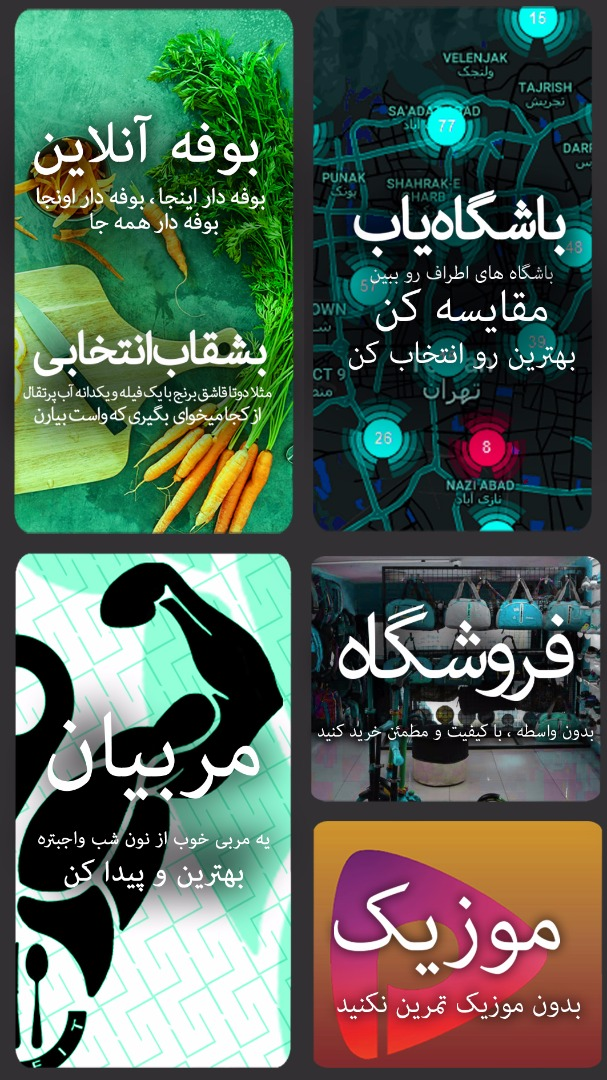
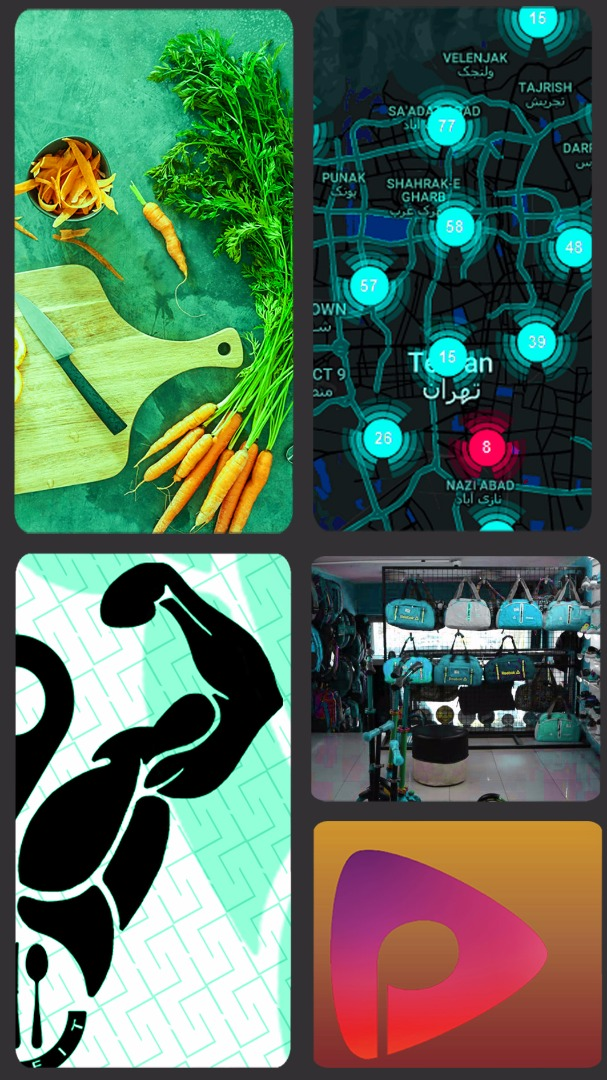
add: homeScreen

diff --git a/src/components/root/Main.js b/src/components/root/Main.js
@@ -1,6 +1,6 @@
 import React, { Component } from 'react';
-import { Text, View, } from 'react-native';
-import { Button, Container } from 'native-base';
+import { View, TouchableOpacity } from 'react-native';
+import { Container } from 'native-base';
 import { connect } from 'react-redux';
 import { main } from '../../assets/styles/index';
 import AppHeader from '../header';
@@ -8,6 +8,7 @@ import { putCheckToken } from '../../services';
 import MemberGrid from './grids/MemberGrid';
 import GymGrid from './grids/GymGrid';
 import BuffetGrid from './grids/BuffetGrid';
+import { Text } from '../Kit';
 
 @connect(state => ({
   user: state.user,
@@ -46,33 +47,24 @@ export default class Main extends Component {
       1 ?
         (<View>
           <View style={main.pannelContainer}>
-            <View style={main.pannelWrapper}>
-              <Button
-                full
-                style={main.pannelBtn}
-                onPress={() => this.setState({ viewComponent: <GymGrid /> })}
-              >
-                <Text style={main.pannelTextBtn}>باشگاه دار</Text>
-              </Button>
-            </View>
-            <View style={{ flex: 1, margin: 2 }}>
-              <Button
-                full
-                style={main.pannelBtn}
-                onPress={() => this.setState({ viewComponent: <BuffetGrid /> })}
-              >
-                <Text style={main.pannelTextBtn}>بوفه دار</Text>
-              </Button>
-            </View>
-            <View style={{ flex: 1, margin: 2 }}>
-              <Button
-                full
-                style={main.pannelBtn}
-                onPress={() => this.setState({ viewComponent: <MemberGrid /> })}
-              >
-                <Text style={main.pannelTextBtn}>ورزشکار</Text>
-              </Button>
-            </View>
+            <TouchableOpacity
+              style={main.pannelBtn}
+              onPress={() => this.setState({ viewComponent: <GymGrid /> })}
+            >
+              <Text style={main.pannelTextBtn}>باشگاه دار</Text>
+            </TouchableOpacity>
+            <TouchableOpacity
+              style={main.pannelBtn}
+              onPress={() => this.setState({ viewComponent: <BuffetGrid /> })}
+            >
+              <Text style={main.pannelTextBtn}>بوفه دار</Text>
+            </TouchableOpacity>
+            <TouchableOpacity
+              style={main.pannelBtn}
+              onPress={() => this.setState({ viewComponent: <MemberGrid /> })}
+            >
+              <Text style={main.pannelTextBtn}>ورزشکار</Text>
+            </TouchableOpacity>
           </View>
          </View>)
         : null;

diff --git a/src/components/root/grids/GymGrid.js b/src/components/root/grids/GymGrid.js
@@ -1,5 +1,5 @@
 import React, { Component } from 'react';
-import { View } from 'react-native';
+import { ImageBackground, View } from 'react-native';
 import { Container } from 'native-base';
 import { connect } from 'react-redux';
 import { styles } from './style';
@@ -17,7 +17,11 @@ export default class GymGrid extends Component {
   render() {
     return (
       <Container>
-        <View style={styles.mainContainer}>
+        <ImageBackground
+          source={require('../../../assets/GymGrid.jpeg')}
+          imageStyle={styles.background}
+          style={styles.mainContainer}
+        >
           <View style={styles.mainRowWrapper}>
             <View style={styles.wrapper}>
               <MyGym />
@@ -28,13 +32,13 @@ export default class GymGrid extends Component {
           </View>
           <View style={styles.mainRowWrapper}>
             <View style={styles.wrapper}>
-              <Music />
-            </View>
-            <View style={styles.wrapper}>
               <Store />
             </View>
+            <View style={styles.wrapper}>
+              <Music />
+            </View>
           </View>
-        </View>
+        </ImageBackground>
       </Container>
     );
   }

diff --git a/src/components/root/profile/EditProfile.js b/src/components/root/profile/EditProfile.js
@@ -11,8 +11,8 @@ import { setUser } from '../../../redux/actions/index';
 import { picker } from './imagePicker';
 import { uploader } from '../../../services/UploadImage';
 import { Member } from '../../../services/type';
-import {Text} from "../../Kit";
-import {mainColor, white} from "../../../assets/variables/colors";
+import { Text } from '../../Kit';
+import { mainColor, white } from '../../../assets/variables/colors';
 
 @connect(state => ({
   user: state.user,
@@ -157,11 +157,11 @@ export default class EditProfile extends React.Component {
                 style={EditProfileStyle.uploadButton}
                 onPress={this.showImagePicker.bind(this)}
               >
-                <Text style={{color:white}}>انتخاب تصویر</Text>
+                <Text style={{ color: white }}>انتخاب تصویر</Text>
               </Button>
               <Button
                 disabled={this.state.UploadButtonDisable}
-                style={{backgroundColor:mainColor}}
+                style={{ backgroundColor: mainColor }}
                 onPress={this.uploadImage.bind(this)}
               >
                 <Text style={EditProfileStyle.btnText}>آپلود تصویر</Text>

diff --git a/src/components/Main/Buffet.js b/src/components/Main/Buffet.js
@@ -10,10 +10,19 @@ export default () => (
       <Text type="bold" style={styles.animationTitle}>
               بوفه آنلاین
       </Text>
-      {/* <Text style={styles.animationDetail}> */}
-      {/* با بوفه آنلاین شما می توانید غذاهای مخصوص رژیم خود را بصورت آنلاین سفارش دهید و 30 */}
-      {/* الی 45 دقیقه دیگر در محل مورد نظر خود دریافت کنید! */}
-      {/* </Text> */}
+      <Text type="bold" style={styles.animationDetail}>
+      بوفه دار اینجا، بوفه دار اونجا
+      </Text>
+      <Text type="bold" style={styles.animationDetail}>
+        بوفه دار همه جا
+      </Text>
+      <Text type="bold" style={styles.animationTitle}>
+        بشقاب انتخابی
+      </Text>
+      <Text type="bold" style={styles.animationDetail}>
+        مثلا دو قاشق برنج با یک فیله و یکدانه
+        آب پرتقال از کجا میخوای بگیری که واست بیارن
+      </Text>
     </View>
   </TouchableWithoutFeedback>
 );

diff --git a/src/components/Main/style.js b/src/components/Main/style.js
@@ -3,23 +3,26 @@ import EStyleSheet from 'react-native-extended-stylesheet';
 const styles = EStyleSheet.create({
   animationView: {
     flex: 1,
-    // backgroundColor: 'rgba(0,0,0,0.2)',
-    // borderRadius: 10,
-    // borderColor: 'white',
-    // borderWidth: 2,
-    margin: 5,
-    marginHorizontal: 6,
+    backgroundColor: 'rgba(0,0,0,0.15)',
+    paddingHorizontal: 5,
+    justifyContent: 'center'
   },
   animationTitle: {
     color: 'white',
-    fontSize: 16,
+    fontSize: 24,
     textAlign: 'center',
-    marginBottom: 5
+    textShadowColor: 'rgba(0, 0, 0, 0.9)',
+    textShadowOffset: { width: -1, height: 1 },
+    textShadowRadius: 10
   },
   animationDetail: {
+    textAlign: 'center',
     color: 'white',
     fontSize: 12,
-    marginHorizontal: 5,
+    marginHorizontal: 2,
+    textShadowColor: 'rgba(0, 0, 0, 0.9)',
+    textShadowOffset: { width: -1, height: 1 },
+    textShadowRadius: 10
   },
 });
 export { styles };

diff --git a/src/components/root/grids/BuffetGrid.js b/src/components/root/grids/BuffetGrid.js
@@ -1,5 +1,5 @@
 import React, { Component } from 'react';
-import { View } from 'react-native';
+import { ImageBackground, View } from 'react-native';
 import { Container } from 'native-base';
 import { connect } from 'react-redux';
 import PropTypes from 'prop-types';
@@ -51,7 +51,11 @@ export default class BuffetGrid extends Component {
   render() {
     return (
       <Container>
-        <View style={styles.mainContainer}>
+        <ImageBackground
+          source={require('../../../assets/BuffetGrid.jpeg')}
+          imageStyle={styles.background}
+          style={styles.mainContainer}
+        >
           <View style={styles.mainRowWrapper}>
             <View style={styles.wrapper}>
               <BuffetKeeper />
@@ -73,10 +77,9 @@ export default class BuffetGrid extends Component {
               </View>
             </View>
           </View>
-        </View>
+        </ImageBackground>
       </Container>
     );
   }
 }
-
 

diff --git a/src/assets/styles/index.js b/src/assets/styles/index.js
@@ -1,6 +1,6 @@
 import EStyleSheet from 'react-native-extended-stylesheet';
 import { Dimensions } from 'react-native';
-import { mainColor } from '../variables/colors';
+import { darkColor, mainColor } from '../variables/colors';
 
 const window = Dimensions.get('window');
 
@@ -28,13 +28,17 @@ export const drawer = EStyleSheet.create({
 });
 export const main = EStyleSheet.create({
   pannelContainer: { flexDirection: 'row', justifyContent: 'center', alignItems: 'center' },
-  pannelWrapper: { flex: 1, margin: 2 },
   pannelBtn: {
-    borderRadius: 5,
-    backgroundColor: '$statusBarColor',
+    flex: 1,
+    height: 20,
+    backgroundColor: mainColor,
+    borderLeftWidth: 1,
+    borderTopWidth: 1,
+    borderColor: darkColor,
+    justifyContent: 'center'
   },
   pannelTextBtn: {
-    fontFamily: '$IS',
+    textAlign: 'center',
     color: 'white',
   },
 

diff --git a/src/components/Main/Coach.js b/src/components/Main/Coach.js
@@ -10,12 +10,12 @@ export default () => (
       <Text type="bold" style={styles.animationTitle}>
                   مربیان
       </Text>
-      {/* <Text style={styles.animationDetail}> */}
-      {/* مربی مورد نظر خودتون رو پیدا کنید! برنامه ی غذایی، برنامه ورزشی، مشاوره و خیلی */}
-      {/* کارهای دیگه! مربی هستید و در لیست مربیان ثبت نشده اید؟ */}
-      {/* از طریق پشتیبانی به ما اطلاع */}
-      {/* بدهید. */}
-      {/* </Text> */}
+      <Text style={styles.animationDetail}>
+        یه مربی خوب از نون شب واجبتره
+      </Text>
+      <Text type="bold" style={styles.animationDetail}>
+        بهترین رو پیدا کن
+      </Text>
     </View>
   </TouchableWithoutFeedback>
 );

diff --git a/src/components/Main/Gym.js b/src/components/Main/Gym.js
@@ -10,11 +10,15 @@ export default () => (
       <Text type="bold" style={styles.animationTitle}>
                   باشگاه یاب
       </Text>
-      {/* <Text style={styles.animationDetail}> */}
-      {/* باشگاه دور و */}
-      {/* اطراف خودتون رو پیدا کنید، عکس هاشو ببینید و */}
-      {/* نظرات بقیه رو راجع به باشگاه مورد نظرتون بخونید. */}
-      {/* </Text> */}
+      <Text style={styles.animationDetail}>
+       باشگاه های اطراف رو ببین
+      </Text>
+      <Text type="bold" style={styles.animationDetail}>
+        مقایسه کن
+      </Text>
+      <Text style={styles.animationDetail}>
+        بهترین رو انتخاب کن
+      </Text>
     </View>
   </TouchableWithoutFeedback>
 );

diff --git a/src/components/Main/MyGym.js b/src/components/Main/MyGym.js
@@ -10,11 +10,8 @@ export default () => (
       <Text type="bold" style={styles.animationTitle}>
               باشگاه من
       </Text>
-      <Text style={styles.animationDetail}>
-              عکس و اطلاعات و توضیحات باشکاه خود را ویرایش کنید
-              تا بیشتر مورد توجه قرار بگیرید!
-              در باشگاه خود ثبت نشده اید؟
-              با پشتیبانی تماس بگیرید.
+      <Text type="bold" style={styles.animationDetail}>
+              باشگاه خود را مدیریت کنید
       </Text>
     </View>
   </TouchableWithoutFeedback>

diff --git a/src/components/Main/Music.js b/src/components/Main/Music.js
@@ -10,12 +10,9 @@ export default () => (
       <Text type="bold" style={styles.animationTitle}>
               موزیک
       </Text>
-      {/* To do : text-align : justify with WebView Html */}
-      {/*<Text style={styles.animationDetail}>*/}
-              {/*لطفا با موزیک ورزش کنید!*/}
-              {/*میکس های جدید هر هفته!*/}
-              {/*دانلود کنید و لذت ببرید.*/}
-      {/*</Text>*/}
+      <Text style={styles.animationDetail}>
+              بدون موزیک تمرین نکنید
+      </Text>
     </View>
   </TouchableWithoutFeedback>
 );

diff --git a/src/components/Main/Store.js b/src/components/Main/Store.js
@@ -10,11 +10,9 @@ export default () => (
       <Text type="bold" style={styles.animationTitle}>
               فروشگاه
       </Text>
-      {/* /!* To do : text-align : justify with WebView Html *!/ */}
-      {/* <Text style={styles.animationDetail}> */}
-      {/* نظرتون راجع به */}
-      {/* فروشگاه ورزشی آنلاین اونم از طریق اپلیکیشن چیه؟ */}
-      {/* </Text> */}
+      <Text style={styles.animationDetail}>
+       بدون واسطه، با کیفیت و مطمئن خرید کنید
+      </Text>
     </View>
   </TouchableWithoutFeedback>
 );
